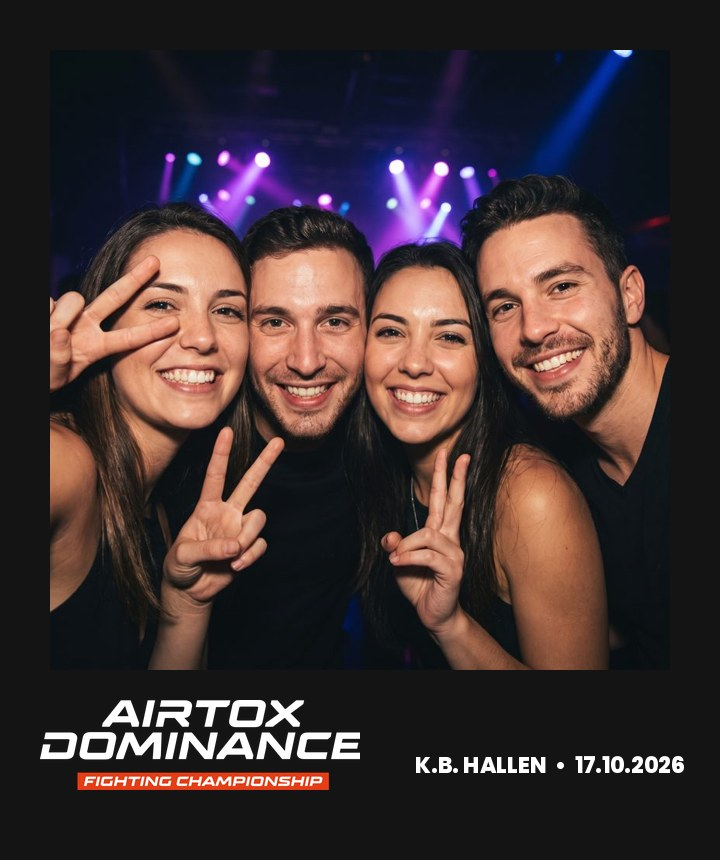
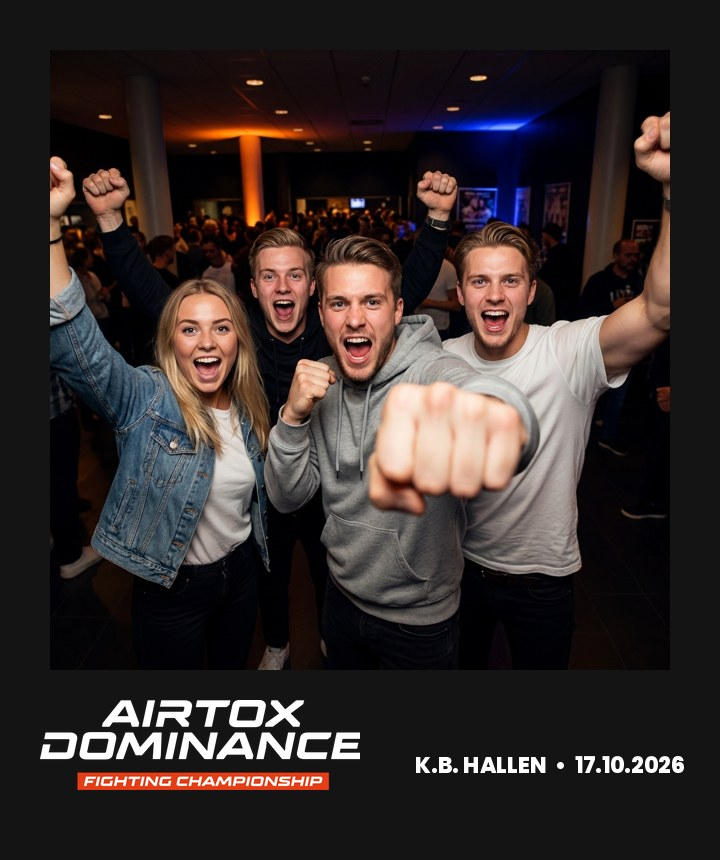
Airtox Dominance-katalog: eksempelbilleder af face-off, fighterkort og stævne (#77)
Rammesiden viser nu tre billeder lavet med Gemini, der passer til det, kataloget
beskriver: to fans i face-off, et fighterkort i sort/hvid og en gruppe fans i
foyeren, hver i boksens egen Airtox Dominance-ramme. Siden siger, at billederne
er lavet med AI.

Claude-Session: https://claude.ai/code/session_01VuSBLiUkNPMtRaJzHJKxsB

diff --git a/web/app/erhverv/airtox-dominance/page.tsx b/web/app/erhverv/airtox-dominance/page.tsx
@@ -241,20 +241,26 @@ export default function AirtoxDominanceKatalog() {
         {/* 07 RAMMERNE */}
         <Page n={7} cap="Rammerne">
           <span className="kat-kicker">Rammerne</span>
-          <h2>Stævnet og fighterkortet</h2>
-          <p className="kat-lede">Hvert stævne får sin egen ramme med logoet, hallen og datoen. Fighterkortet gør fansen til en del af kortet.</p>
-          <div className="kat-frames">
+          <h2>Face-off, fighterkort og stævnet</h2>
+          <p className="kat-lede">Hvert stævne får sin egen ramme med logoet, hallen og datoen. Face-off og fighterkort gør fansen til en del af kortet.</p>
+          <div className="kat-frames kat-frames--3">
             <figure>
               {/* eslint-disable-next-line @next/next/no-img-element */}
-              <img src={`${IMG}/foto-staevne.jpg`} alt="Stævnerammen i sort med Airtox Dominance-logoet og K.B. Hallen med dato" />
-              <figcaption>Stævnerammen: logoet med hal og dato, her fra K.B. Hallen.</figcaption>
+              <img src={`${IMG}/foto-faceoff.jpg`} alt="To fans laver face-off i foyeren med knyttede næver, i Airtox Dominance-rammen med Face-off og K.B. Hallen" />
+              <figcaption>Face-off: to fans stirrer hinanden ned som til indvejningen.</figcaption>
             </figure>
             <figure>
               {/* eslint-disable-next-line @next/next/no-img-element */}
-              <img src={`${IMG}/foto-fighterkort.jpg`} alt="Fighterkortet i sort/hvid med Fear nothing og Airtox Dominance-logoet" />
-              <figcaption>Fighterkortet i sort/hvid med »Fear nothing« og plads til navnet.</figcaption>
+              <img src={`${IMG}/foto-fighterkort.jpg`} alt="En fan med armene over kors i sort/hvid på fighterkortet med Fear nothing og Airtox Dominance-logoet" />
+              <figcaption>Fighterkortet i sort/hvid med »Fear nothing«.</figcaption>
+            </figure>
+            <figure>
+              {/* eslint-disable-next-line @next/next/no-img-element */}
+              <img src={`${IMG}/foto-staevne.jpg`} alt="Fire fans jubler mod kameraet i foyeren, i stævnerammen med Airtox Dominance-logoet og K.B. Hallen med dato" />
+              <figcaption>Stævnerammen med hal og dato, her fra K.B. Hallen.</figcaption>
             </figure>
           </div>
+          <p className="kat-fine">Eksempelbilleder lavet med AI for at vise rammerne. Ingen rigtige gæster.</p>
           <ul className="kat-points" style={{ marginTop: 6, marginBottom: 70 }}>
             <li><b>Altid logoet</b><span>ADFC og Airtox fast på rammen, stævnet eller klubben ved siden af.</span></li>
             <li><b>Klar til stories</b><span>Formater til feed, story og reels, så rammen sidder rigtigt overalt.</span></li>

diff --git a/web/app/erhverv/airtox-dominance/airtox-dominance.css b/web/app/erhverv/airtox-dominance/airtox-dominance.css
@@ -42,6 +42,7 @@
 .kat-frames { display: grid; grid-template-columns: 1fr 1fr; gap: 28px; margin: 4px 0 8px; }
 .kat-frames figure { margin: 0; }
 .kat-frames img { display: block; width: 100%; height: auto; border-radius: 4px; box-shadow: 0 14px 28px rgba(0, 0, 0, 0.3); }
+.kat-frames--3 { grid-template-columns: 1fr 1fr 1fr; gap: 16px; }
 .kat-frames figcaption { font-size: 13px; line-height: 1.4; margin-top: 10px; opacity: 0.78; }
 
 /* the campaign year, month by month */
